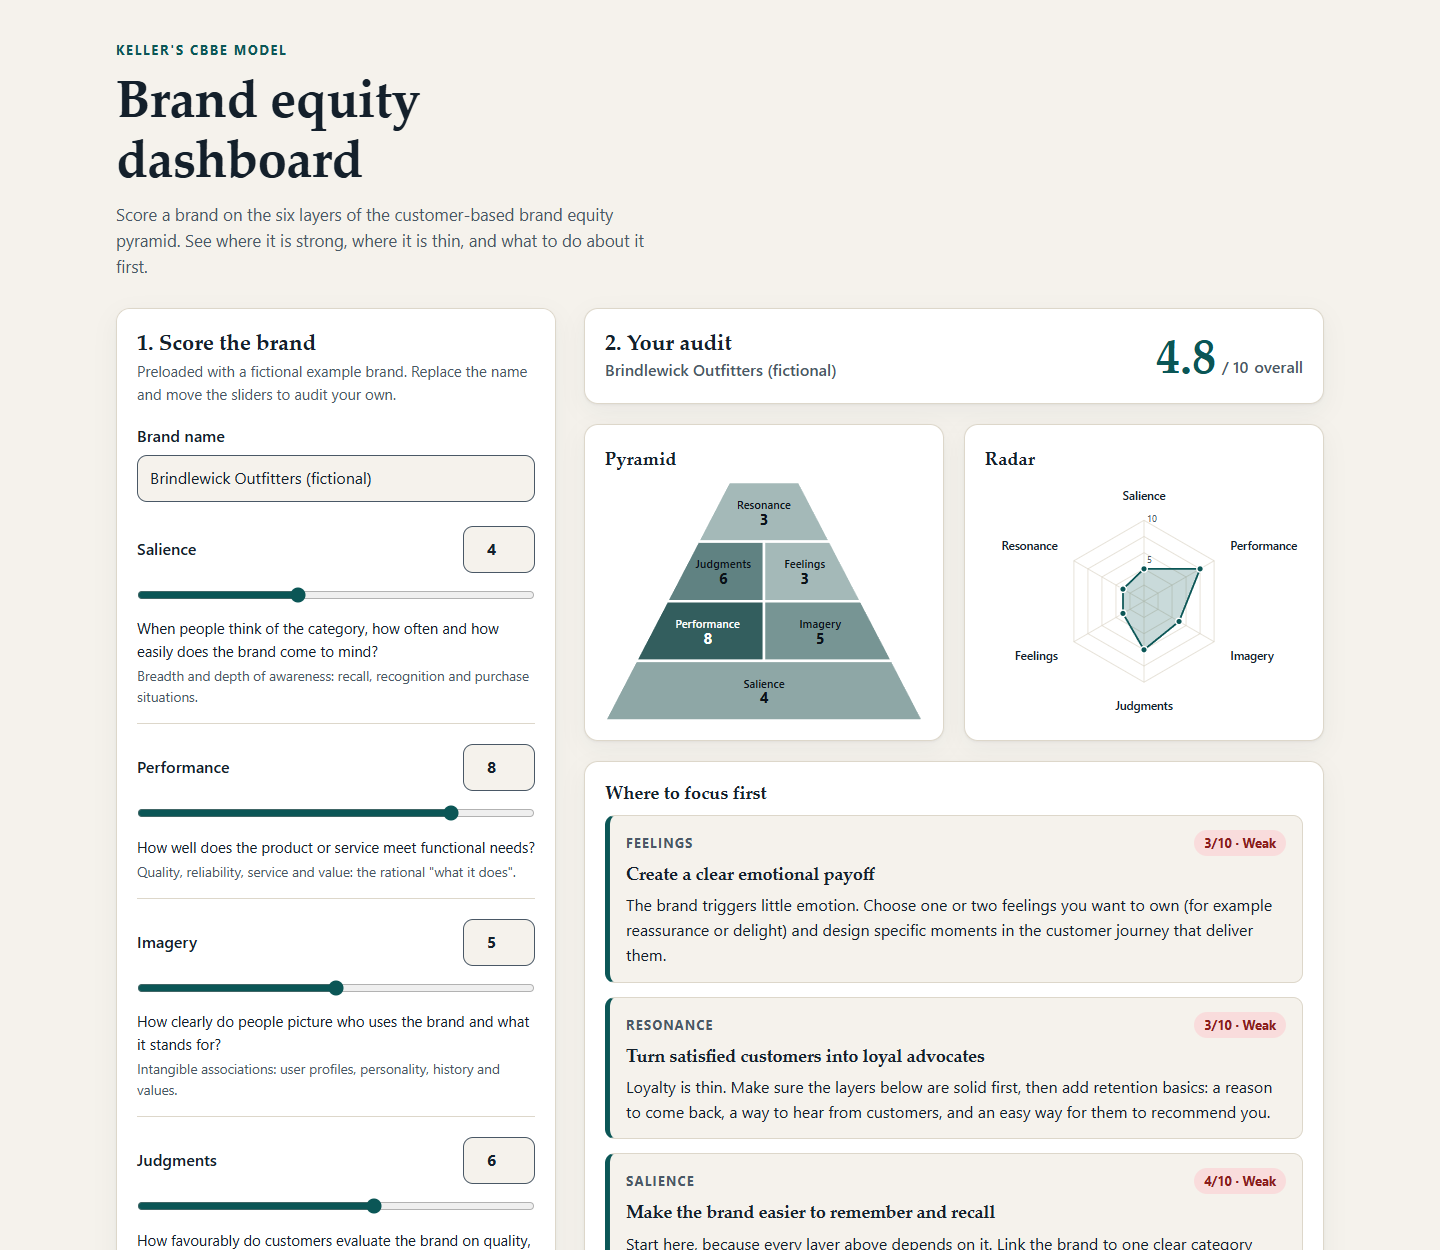
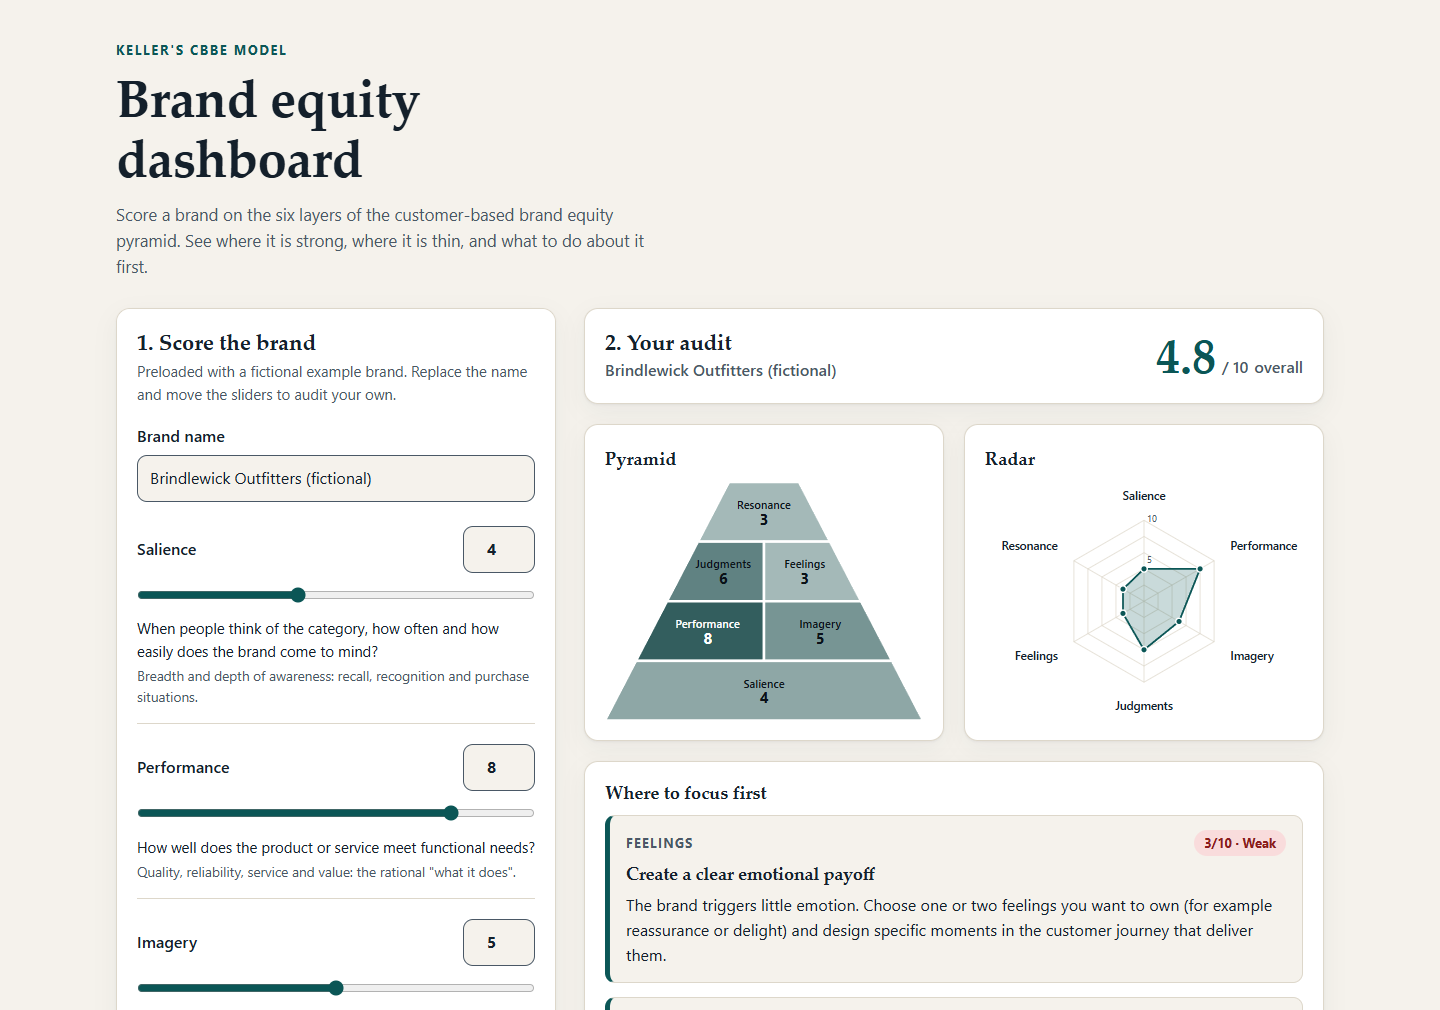
docs: tighter desktop screenshot and add mobile view

diff --git a/README.md b/README.md
@@ -4,7 +4,11 @@ A small static web app for auditing a brand against Keller's customer-based bran
 
 It ships preloaded with **Brindlewick Outfitters**, a fictional outdoor-gear brand invented for this demo. It is not a real company.
 
-![Dashboard screenshot](docs/screenshot.png)
+![Dashboard on desktop: score sliders, pyramid and radar charts, and ranked recommendations](docs/screenshot.png)
+
+It also works at phone width (375px). The charts and results stack into a single column:
+
+<img src="docs/screenshot-mobile.png" alt="Dashboard on a phone: overall score, pyramid and radar charts" width="320">
 
 ## The CBBE model in three sentences
 
